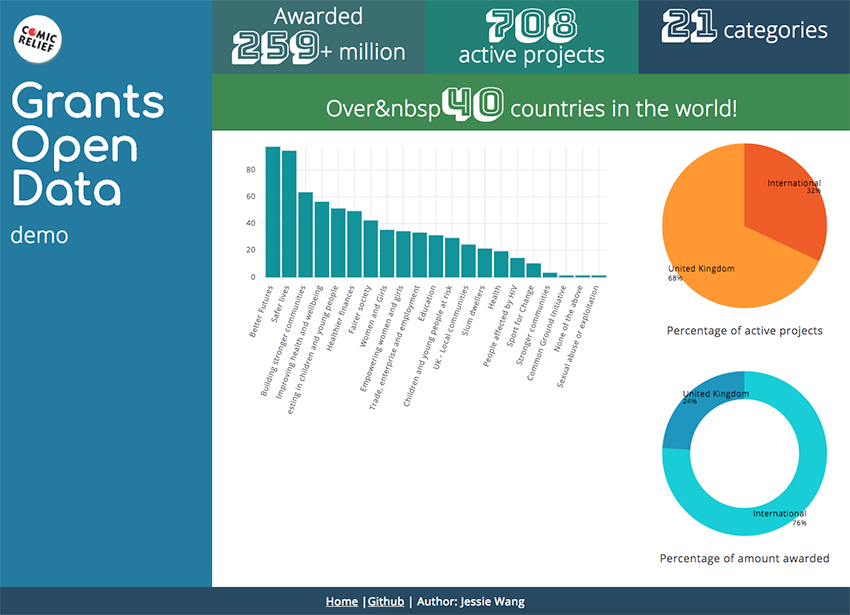
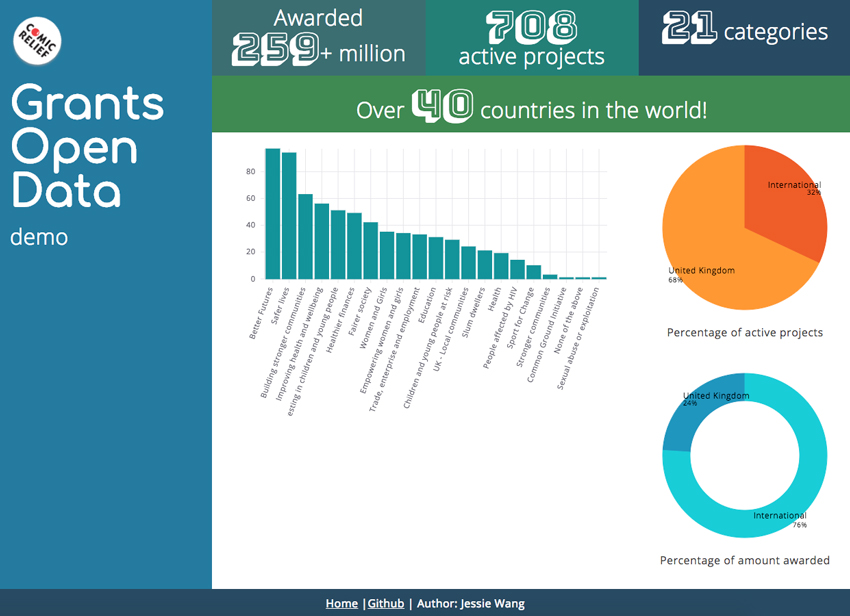
update readme

diff --git a/src/App.js b/src/App.js
@@ -95,7 +95,7 @@ class App extends Component {
           </h2>
         </div>
         <div className="grid facts-4">
-          <h2>Over&nbsp
+          <h2>Over&nbsp;
             <span className="number">
               {location.length}
             </span> countries in the world!
